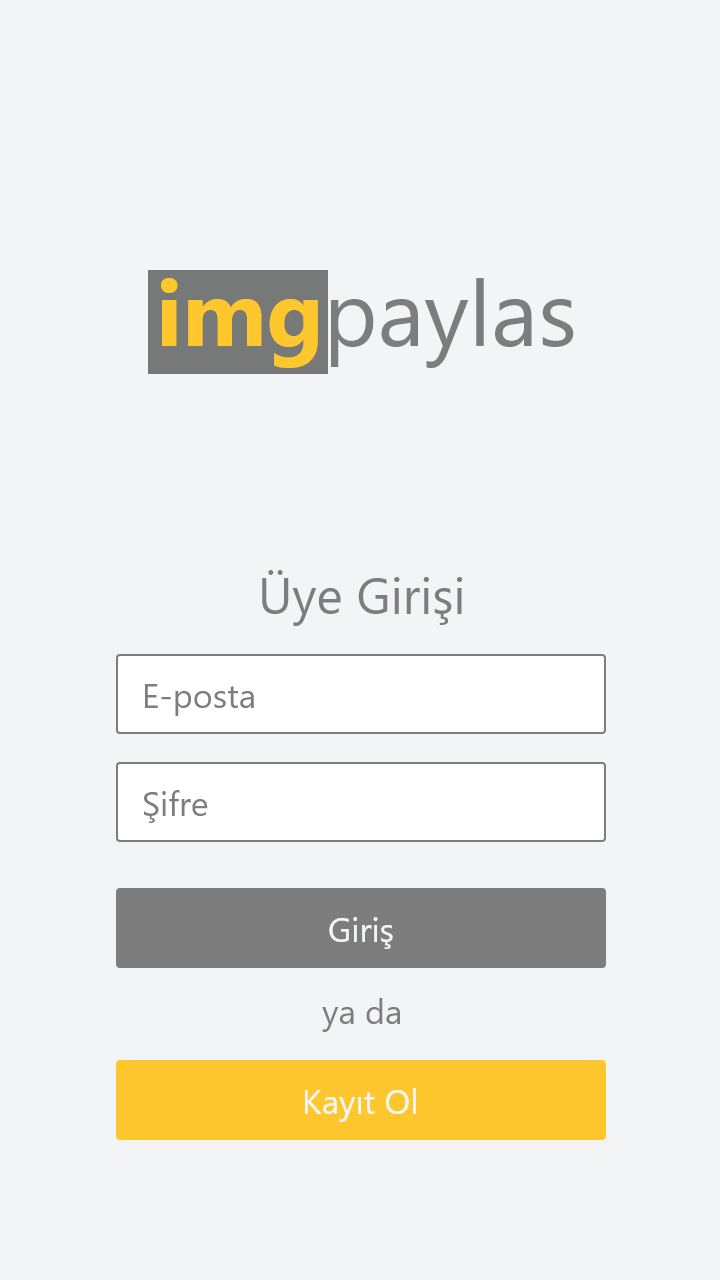
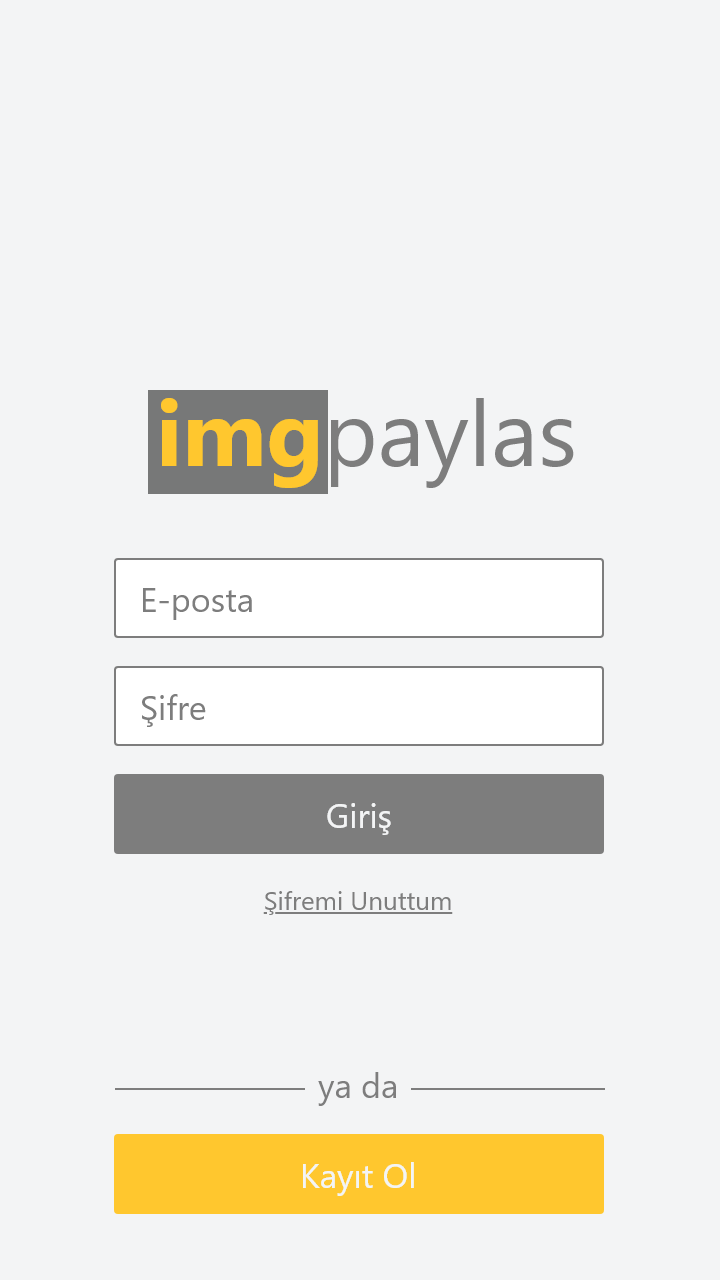
Giriş tasarımına güncelleme, ayarlar sayfası oluşturuldu
Genel iyileştirmeler

Changed region(s): [[0.1528, 0.4375, 0.8556, 0.9688], [0.1833, 0.1875, 0.7944, 0.4062], [0.5806, 0.375, 0.6111, 0.4062]]

diff --git a/mobil/imgpaylas/components/stacks/Register.js b/mobil/imgpaylas/components/stacks/Register.js
@@ -2,6 +2,7 @@ import auth from "@react-native-firebase/auth";
 import React, { useState } from "react";
 import { Text, TextInput, TouchableOpacity, View } from "react-native";
 import styles from "../../styles/style";
+import colors from "../../styles/colors";
 
 // Kayıt sayfası
 export default function Register({ navigation, screenName }) {
@@ -47,7 +48,7 @@ export default function Register({ navigation, screenName }) {
       <Text
         style={{
           fontSize: 25,
-          color: "#39375B",
+          color: colors.primary,
         }}
       >
         Üye Kaydı
@@ -55,7 +56,7 @@ export default function Register({ navigation, screenName }) {
       <TextInput
         style={styles.textinput}
         placeholder="Ad"
-        placeholderTextColor="#39375B"
+        placeholderTextColor={colors.primary}
         onChangeText={(text) => setName(text)}
         onSubmitEditing={() => {
           emailInput.focus();
@@ -69,7 +70,7 @@ export default function Register({ navigation, screenName }) {
         autoCompleteType="email"
         style={styles.textinput}
         placeholder="E-posta"
-        placeholderTextColor="#39375B"
+        placeholderTextColor={colors.primary}
         onSubmitEditing={() => {
           passwordInput.focus();
         }}
@@ -83,7 +84,7 @@ export default function Register({ navigation, screenName }) {
         secureTextEntry={true}
         style={styles.textinput}
         placeholder="Şifre"
-        placeholderTextColor="#39375B"
+        placeholderTextColor={colors.primary}
         onSubmitEditing={() => {
           passwordAgainInput.focus();
         }}
@@ -96,7 +97,7 @@ export default function Register({ navigation, screenName }) {
         secureTextEntry={true}
         style={styles.textinput}
         placeholder="Şifre Tekrarı"
-        placeholderTextColor="#39375B"
+        placeholderTextColor={colors.primary}
         onSubmitEditing={() => {
           register();
         }}

diff --git a/mobil/imgpaylas/components/stacks/Login.js b/mobil/imgpaylas/components/stacks/Login.js
@@ -45,18 +45,9 @@ export default function Login({ navigation, screenName }) {
         source={require("../../assets/images/logo.png")}
         style={{ width: 214, height: 64 }}
       />
-      <Text
-        style={{
-          fontSize: 25,
-          color: colors.primary,
-          marginTop: 80,
-        }}
-      >
-        Üye Girişi
-      </Text>
       <TextInput
         autoCompleteType="email"
-        style={styles.textinput}
+        style={{ ...styles.textinput, marginTop: 32 }}
         placeholder="E-posta"
         onChangeText={(text) => {
           setEmail(text);
@@ -92,19 +83,31 @@ export default function Login({ navigation, screenName }) {
       >
         <Text style={{ color: "#fff", fontSize: 17 }}>Giriş</Text>
       </TouchableOpacity>
-      <Text style={{ marginTop: 14, fontSize: 17, color: colors.primary }}>
-        ya da
-      </Text>
-      <TouchableOpacity
-        title="Kayıt Ol"
-        style={styles.registerbutton}
-        activeOpacity={1}
-        onPress={() => {
-          register();
+      <Text
+        style={{
+          marginTop: 14,
+          fontSize: 17,
+          color: colors.primary,
+          textDecorationLine: "underline",
         }}
       >
-        <Text style={{ color: "#fff", fontSize: 17 }}>Kayıt Ol</Text>
-      </TouchableOpacity>
+        Şifremi Unuttum
+      </Text>
+      <View style={{ position: "absolute", bottom: 32, alignItems: "center" }}>
+        <Text style={{ marginTop: 14, fontSize: 17, color: colors.primary }}>
+          ya da
+        </Text>
+        <TouchableOpacity
+          title="Kayıt Ol"
+          style={styles.registerbutton}
+          activeOpacity={1}
+          onPress={() => {
+            register();
+          }}
+        >
+          <Text style={{ color: "#fff", fontSize: 17 }}>Kayıt Ol</Text>
+        </TouchableOpacity>
+      </View>
     </View>
   );
 }

diff --git a/mobil/imgpaylas/components/stacks/Settings.js b/mobil/imgpaylas/components/stacks/Settings.js
@@ -1,10 +1,31 @@
+import auth from "@react-native-firebase/auth";
 import React from "react";
-import { View, Text } from "react-native";
+import { View, Text, TouchableOpacity } from "react-native";
+import TabTitle from "../TabTitle";
+import style from "../../styles/style";
 
-export default function Settings() {
+export default function Settings({ navigation }) {
+  function logOff() {
+    auth()
+      .signOut()
+      .then(() => {
+        navigation.reset({
+          index: 0,
+          routes: [{ name: "Login" }],
+        });
+      });
+  }
+
   return (
     <View>
-      <Text></Text>
+      <TabTitle title="Ayarlar" />
+      <TouchableOpacity
+        style={{ ...style.cancelbutton, width: 312 }}
+        activeOpacity={1}
+        onPress={logOff}
+      >
+        <Text style={{ color: "white", fontSize: 17 }}>ÇIKIŞ YAP</Text>
+      </TouchableOpacity>
     </View>
   );
 }

diff --git a/mobil/imgpaylas/styles/style.js b/mobil/imgpaylas/styles/style.js
@@ -1,6 +1,8 @@
 import { StyleSheet } from "react-native";
 import colors from "./colors";
 
+// TODO: butonların yaptığı gereksiz bir kalabalık var düzeltilmeli belki buton componenti yaparak
+
 export default StyleSheet.create({
   container: {
     flex: 1,
@@ -34,7 +36,7 @@ export default StyleSheet.create({
   loginbutton: {
     padding: 8,
     backgroundColor: colors.primary,
-    marginTop: 32,
+    marginTop: 14,
     width: 245,
     alignItems: "center",
     justifyContent: "center",
